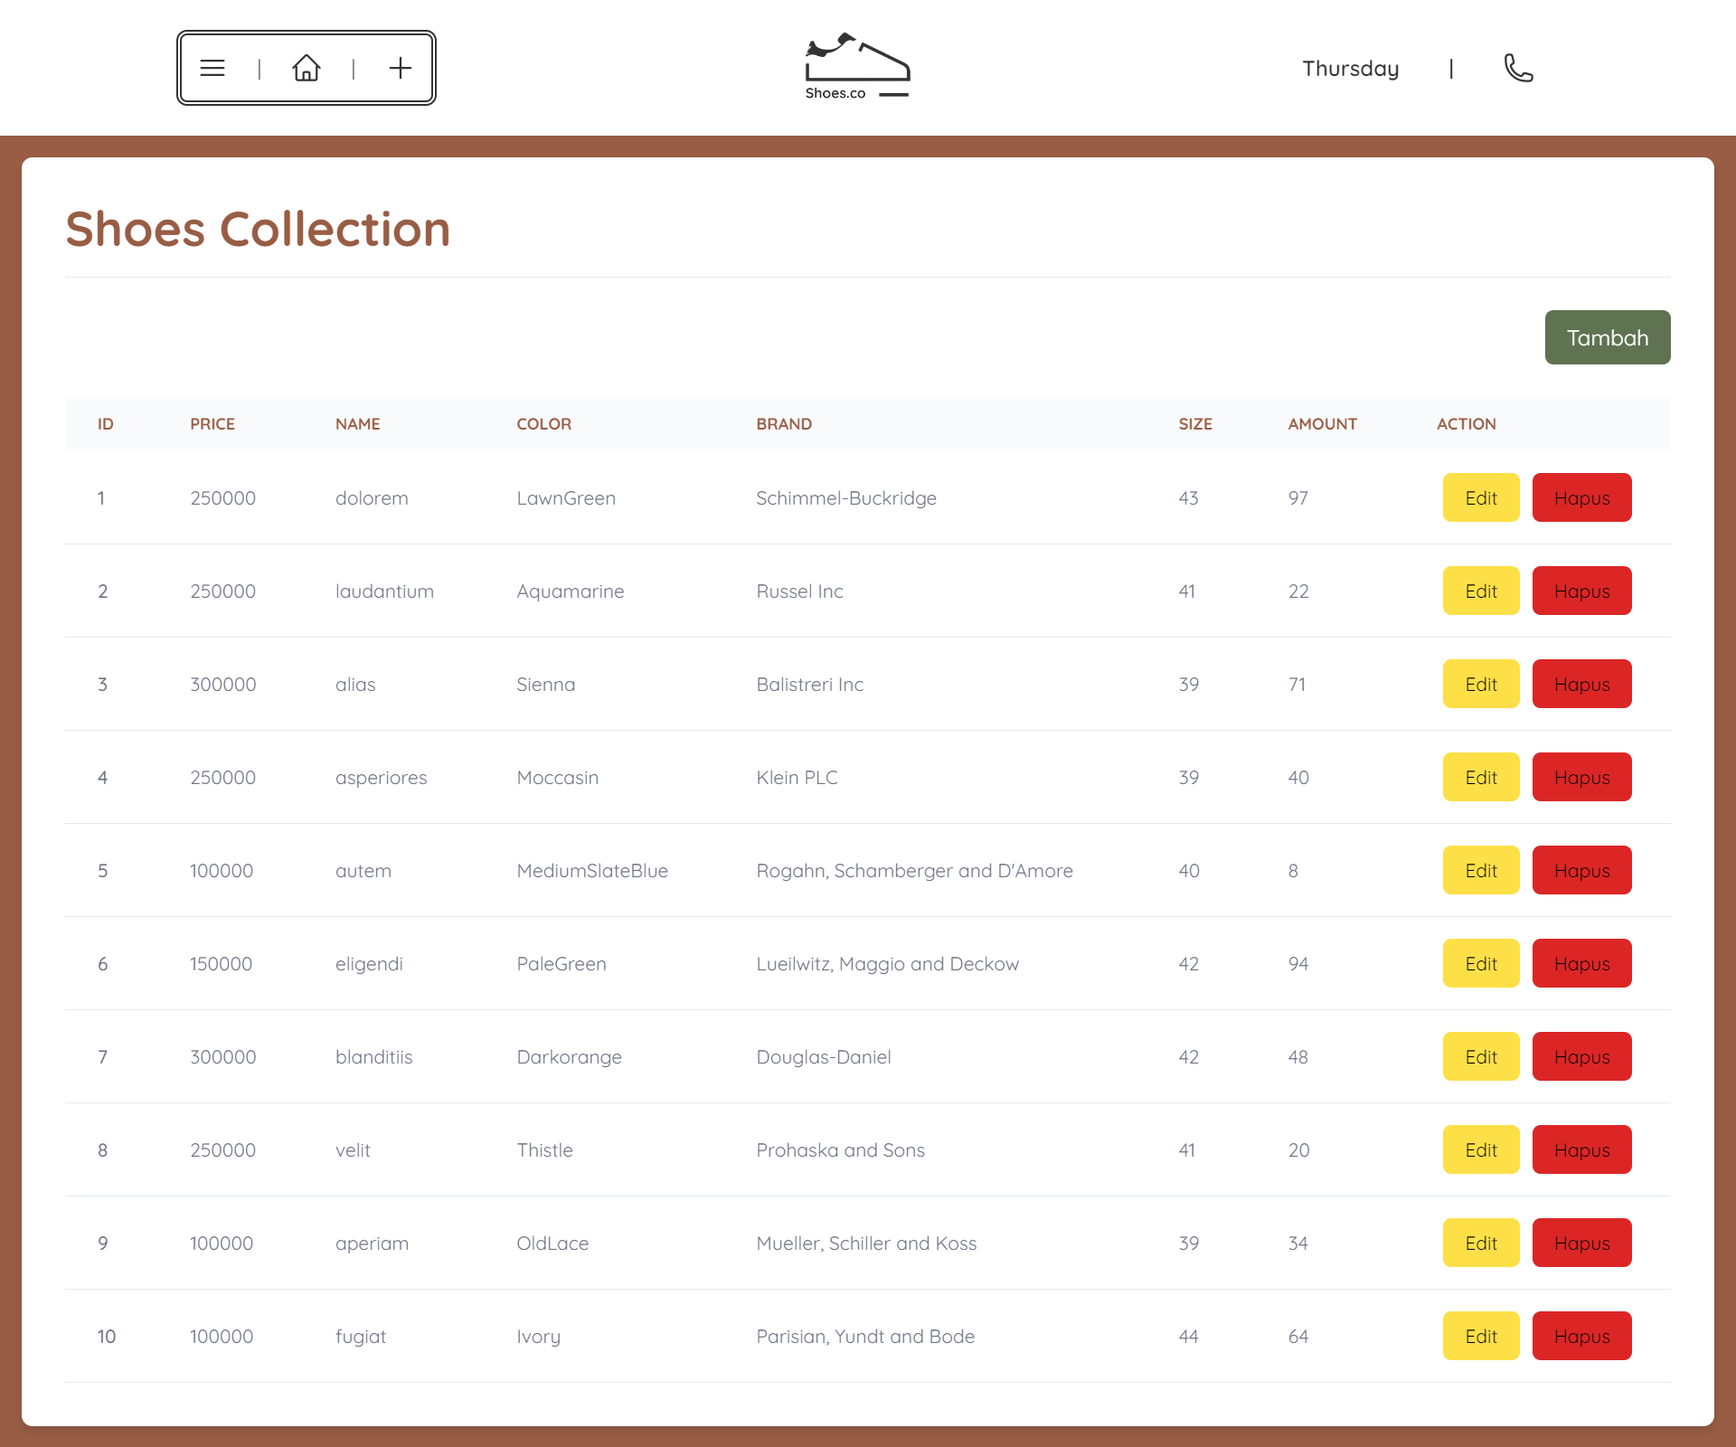
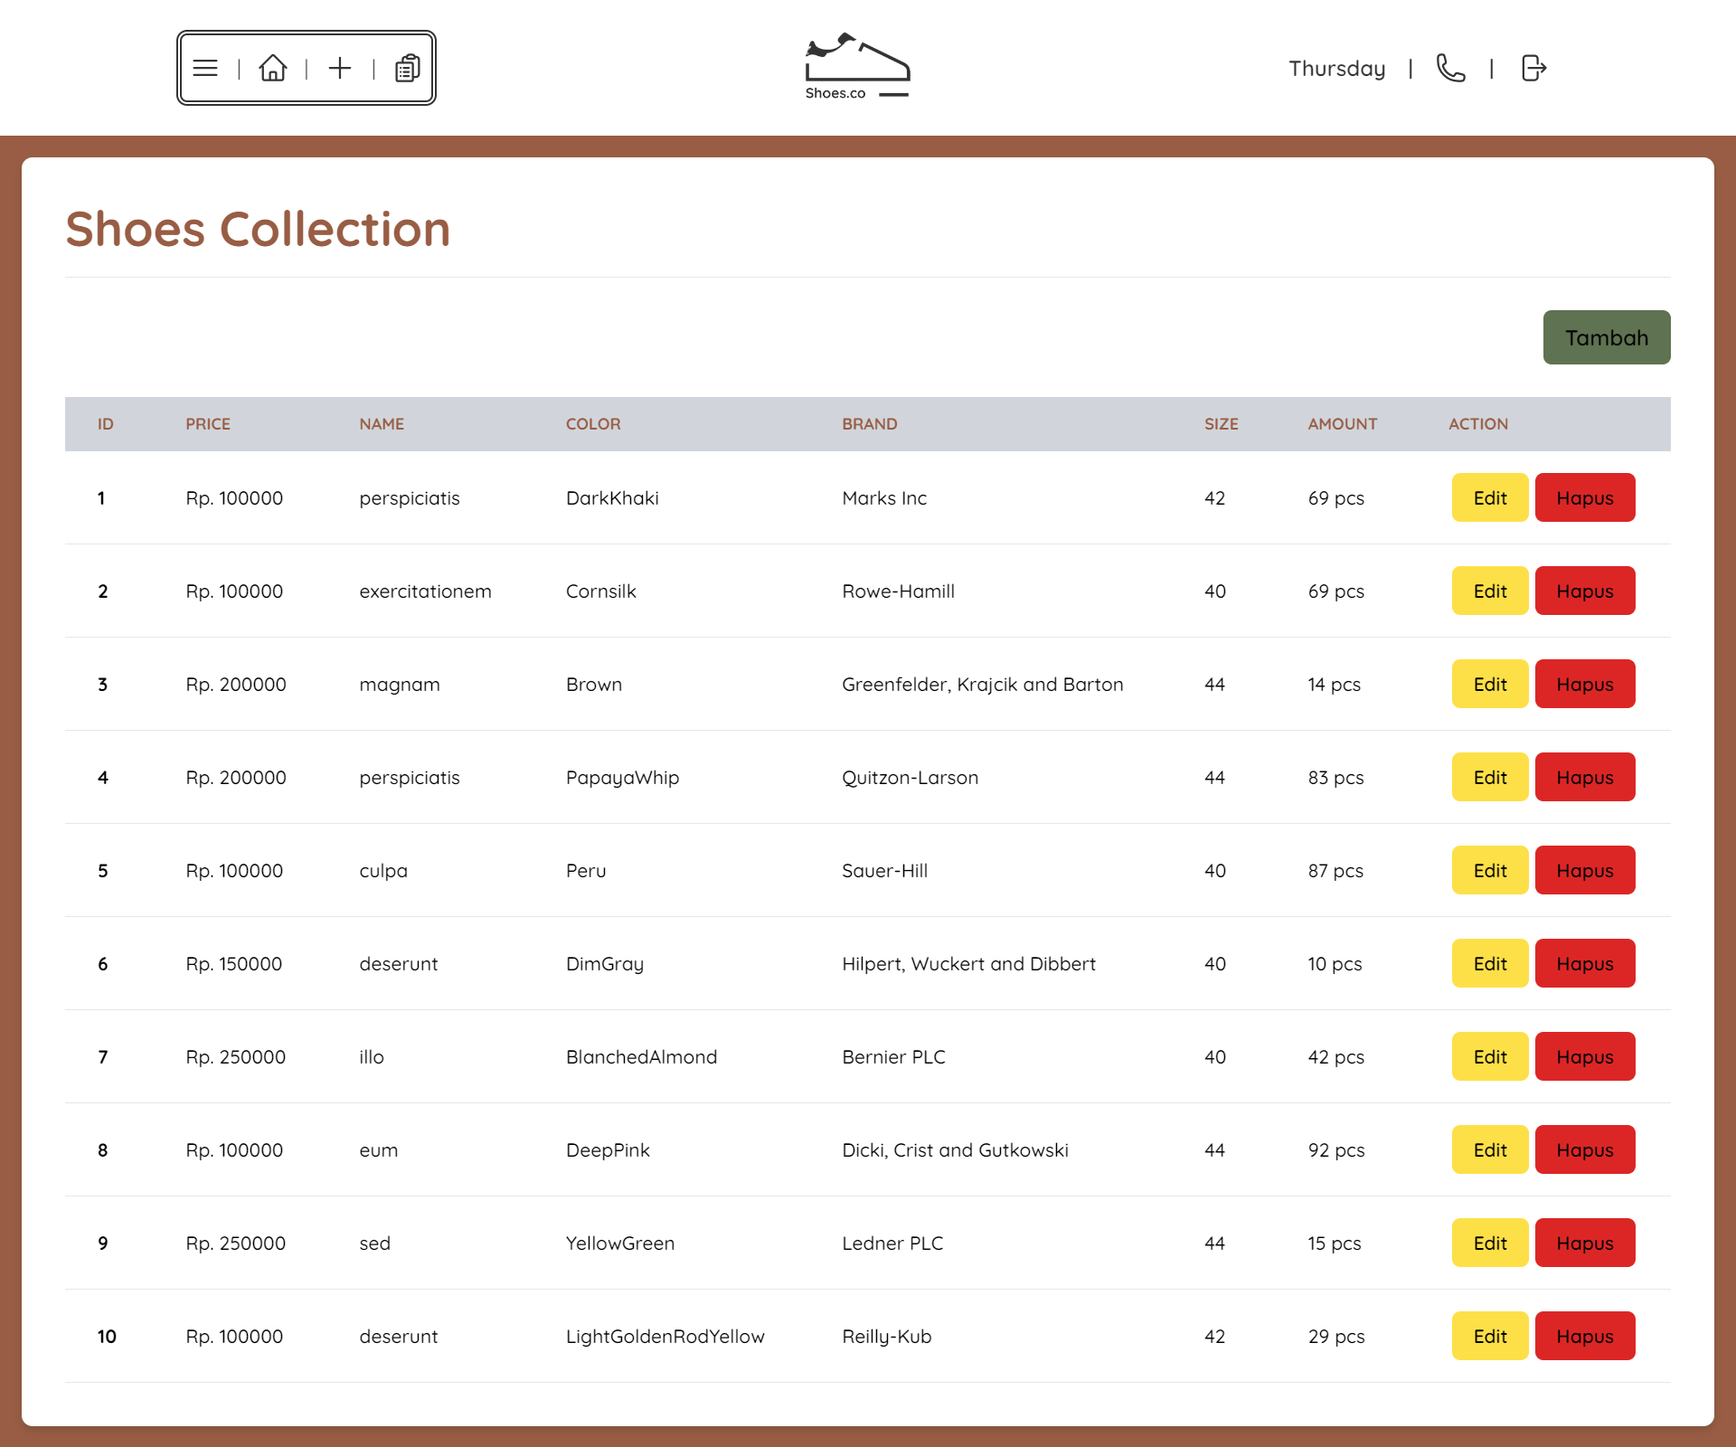
update ketentuan posttest 2

diff --git a/resources/views/admin/dashboard.blade.php b/resources/views/admin/dashboard.blade.php
@@ -1,60 +1,19 @@
 @extends('layouts.landing')
 
 @section('content')
-    <nav id="scroll-bg"
-        class="z-50 grid grid-flow-col w-full content-center sticky justify-around bg-transparent top-0 backdrop-blur-[2px]">
-        <div
-            class="grid justify-around grid-flow-col content-center self-center bg-transparent w-48 h-14 rounded-lg border-4 border-black opacity-80 border-double hover:shadow-sm hover:shadow-black transition ease-in">
-            <a href="">
-                <svg xmlns="http://www.w3.org/2000/svg" fill="none" viewBox="0 0 24 24" stroke-width="1.5" stroke="currentColor"
-                    class="w-6 h-6">
-                    <path stroke-linecap="round" stroke-linejoin="round" d="M3.75 6.75h16.5M3.75 12h16.5m-16.5 5.25h16.5" />
-                </svg>
-            </a>
-            <p class="text-black">|</p>
-            <a href="{{ route('home') }}">
-                <svg xmlns="http://www.w3.org/2000/svg" fill="none" viewBox="0 0 24 24" stroke-width="1.5" stroke="currentColor"
-                    class="w-6 h-6">
-                    <path stroke-linecap="round" stroke-linejoin="round"
-                        d="M2.25 12l8.954-8.955c.44-.439 1.152-.439 1.591 0L21.75 12M4.5 9.75v10.125c0 .621.504 1.125 1.125 1.125H9.75v-4.875c0-.621.504-1.125 1.125-1.125h2.25c.621 0 1.125.504 1.125 1.125V21h4.125c.621 0 1.125-.504 1.125-1.125V9.75M8.25 21h8.25" />
-                </svg>
-            </a>
-            <p class="text-black">|</p>
-            <a href="">
-                <svg xmlns="http://www.w3.org/2000/svg" fill="none" viewBox="0 0 24 24" stroke-width="1.5"
-                    stroke="currentColor" class="w-6 h-6">
-                    <path stroke-linecap="round" stroke-linejoin="round" d="M12 4.5v15m7.5-7.5h-15" />
-                </svg>
-
-            </a>
-        </div>
-        <a href="{{ route('home') }}" class="flex justify-center bg-transparent opacity-80 w-full">
-            <img src="{{ asset('assets/images/logo-black.png') }}" alt="Logo Shoes.co" class="w-fit h-[100px] top-3">
-        </a>
-        <div id="day-contact"
-            class="bg-transparent grid justify-around grid-flow-col content-center self-center w-52 h-14 text-black font-semibold opacity-80">
-            <p id="dayOfWeek"></p>
-            <p class="text-black">|</p>
-            <a href="">
-                <svg xmlns="http://www.w3.org/2000/svg" fill="none" viewBox="0 0 24 24" stroke-width="1.5"
-                    stroke="black" class="w-6 h-6 transition ease-in">
-                    <path stroke-linecap="round" stroke-linejoin="round"
-                        d="M2.25 6.75c0 8.284 6.716 15 15 15h2.25a2.25 2.25 0 002.25-2.25v-1.372c0-.516-.351-.966-.852-1.091l-4.423-1.106c-.44-.11-.902.055-1.173.417l-.97 1.293c-.282.376-.769.542-1.21.38a12.035 12.035 0 01-7.143-7.143c-.162-.441.004-.928.38-1.21l1.293-.97c.363-.271.527-.734.417-1.173L6.963 3.102a1.125 1.125 0 00-1.091-.852H4.5A2.25 2.25 0 002.25 4.5v2.25z" />
-                </svg>
-            </a>
-        </div>
-    </nav>
+    @include('admin.navbar')
     <div class="w-full h-full flex">
         <div class="w-full flex flex-col bg-[#985d44]">
             <div class="h-auto m-4 p-8 bg-white rounded-lg drop-shadow-md">
                 <p class="text-4xl font-bold mb-4 text-[#985d44]">Shoes Collection</p>
                 <hr><br>
                 <div class="w-full h-auto flex justify-end">
-                    <button class="px-4 py-2 bg-[#5f7251] hover:bg-[#546548] rounded-md text text-white">Tambah</button>
+                    <button
+                        class="px-4 py-2 bg-[#5f7251] hover:bg-[#546548] rounded-md text text-black hover:text-white font-semibold">Tambah</button>
                 </div><br>
                 <div class="relative overflow-x-auto">
                     <table class="w-full text-sm text-left text-gray-500">
-                        <thead class="text-xs text-[#985d44] uppercase bg-gray-50">
+                        <thead class="text-xs text-[#985d44] uppercase bg-gray-300">
                             <tr>
                                 <th scope="col" class="px-6 py-3">
                                     ID
@@ -84,12 +43,12 @@
                         </thead>
                         <tbody>
                             @foreach ($product as $pd)
-                                <tr class="bg-white border-b hover:bg-[#5f7251] hover:text-white">
-                                    <th scope="row" class="px-6 py-4 font-medium text- whitespace-nowrap">
+                                <tr class="bg-white border-b hover:bg-[#5f7251] text-black font-medium hover:text-white">
+                                    <th scope="row" class="px-6 py-4 whitespace-nowrap">
                                         {{ $pd->id }}
                                     </th>
                                     <td class="px-6 py-4">
-                                        {{ $pd->price }}
+                                        Rp. {{ $pd->price }}
                                     </td>
                                     <td class="px-6 py-4">
                                         {{ $pd->name }}
@@ -104,12 +63,14 @@
                                         {{ $pd->size }}
                                     </td>
                                     <td class="px-6 py-4">
-                                        {{ $pd->amount }}
+                                        {{ $pd->amount }} pcs
                                     </td>
                                     <td class="px-6 py-4">
                                         <div class="w-full h-auto flex justify-around">
-                                            <button class="px-4 py-2 bg-yellow-300 rounded-md text-black hover:bg-yellow-500 hover:text-white">Edit</button>
-                                            <button class="px-4 py-2 bg-red-600 rounded-md text-black hover:bg-red-800 hover:text-white">Hapus</button>
+                                            <button
+                                                class="px-4 py-2 bg-yellow-300 rounded-md text-black hover:bg-yellow-500 hover:text-white font-semibold">Edit</button>
+                                            <button
+                                                class="px-4 py-2 bg-red-600 rounded-md text-black hover:bg-red-800 hover:text-white font-semibold">Hapus</button>
                                         </div>
                                     </td>
                                 </tr>

diff --git a/resources/views/admin/navbar.blade.php b/resources/views/admin/navbar.blade.php
@@ -1,0 +1,59 @@
+<nav id="scroll-bg"
+        class="z-50 grid grid-flow-col w-full content-center sticky justify-around bg-transparent top-0 backdrop-blur-[2px]">
+        <div
+            class="grid justify-around grid-flow-col content-center self-center bg-transparent w-48 h-14 rounded-lg border-4 border-black opacity-80 border-double hover:shadow-sm hover:shadow-black transition ease-in">
+            <a href="">
+                <svg xmlns="http://www.w3.org/2000/svg" fill="none" viewBox="0 0 24 24" stroke-width="1.5"
+                    stroke="currentColor" class="w-6 h-6">
+                    <path stroke-linecap="round" stroke-linejoin="round" d="M3.75 6.75h16.5M3.75 12h16.5m-16.5 5.25h16.5" />
+                </svg>
+            </a>
+            <p class="text-black">|</p>
+            <a href="{{ route('admin') }}">
+                <svg xmlns="http://www.w3.org/2000/svg" fill="none" viewBox="0 0 24 24" stroke-width="1.5"
+                    stroke="currentColor" class="w-6 h-6">
+                    <path stroke-linecap="round" stroke-linejoin="round"
+                        d="M2.25 12l8.954-8.955c.44-.439 1.152-.439 1.591 0L21.75 12M4.5 9.75v10.125c0 .621.504 1.125 1.125 1.125H9.75v-4.875c0-.621.504-1.125 1.125-1.125h2.25c.621 0 1.125.504 1.125 1.125V21h4.125c.621 0 1.125-.504 1.125-1.125V9.75M8.25 21h8.25" />
+                </svg>
+            </a>
+            <p class="text-black">|</p>
+            <a href="">
+                <svg xmlns="http://www.w3.org/2000/svg" fill="none" viewBox="0 0 24 24" stroke-width="1.5"
+                    stroke="currentColor" class="w-6 h-6">
+                    <path stroke-linecap="round" stroke-linejoin="round" d="M12 4.5v15m7.5-7.5h-15" />
+                </svg>
+            </a>
+            <p class="text-black">|</p>
+            <a href="{{ route('transaction') }}">
+                <svg xmlns="http://www.w3.org/2000/svg" fill="none" viewBox="0 0 24 24" stroke-width="1.5"
+                    stroke="currentColor" class="w-6 h-6">
+                    <path stroke-linecap="round" stroke-linejoin="round"
+                        d="M9 12h3.75M9 15h3.75M9 18h3.75m3 .75H18a2.25 2.25 0 002.25-2.25V6.108c0-1.135-.845-2.098-1.976-2.192a48.424 48.424 0 00-1.123-.08m-5.801 0c-.065.21-.1.433-.1.664 0 .414.336.75.75.75h4.5a.75.75 0 00.75-.75 2.25 2.25 0 00-.1-.664m-5.8 0A2.251 2.251 0 0113.5 2.25H15c1.012 0 1.867.668 2.15 1.586m-5.8 0c-.376.023-.75.05-1.124.08C9.095 4.01 8.25 4.973 8.25 6.108V8.25m0 0H4.875c-.621 0-1.125.504-1.125 1.125v11.25c0 .621.504 1.125 1.125 1.125h9.75c.621 0 1.125-.504 1.125-1.125V9.375c0-.621-.504-1.125-1.125-1.125H8.25zM6.75 12h.008v.008H6.75V12zm0 3h.008v.008H6.75V15zm0 3h.008v.008H6.75V18z" />
+                </svg>
+
+            </a>
+        </div>
+        <a href="{{ route('admin') }}" class="flex justify-center bg-transparent opacity-80 w-full">
+            <img src="{{ asset('assets/images/logo-black.png') }}" alt="Logo Shoes.co" class="w-fit h-[100px] top-3">
+        </a>
+        <div id="day-contact"
+            class="bg-transparent grid justify-around grid-flow-col content-center self-center w-52 h-14 text-black font-semibold opacity-80">
+            <p id="dayOfWeek"></p>
+            <p class="text-black">|</p>
+            <a href="">
+                <svg xmlns="http://www.w3.org/2000/svg" fill="none" viewBox="0 0 24 24" stroke-width="1.5" stroke="black"
+                    class="w-6 h-6 transition ease-in">
+                    <path stroke-linecap="round" stroke-linejoin="round"
+                        d="M2.25 6.75c0 8.284 6.716 15 15 15h2.25a2.25 2.25 0 002.25-2.25v-1.372c0-.516-.351-.966-.852-1.091l-4.423-1.106c-.44-.11-.902.055-1.173.417l-.97 1.293c-.282.376-.769.542-1.21.38a12.035 12.035 0 01-7.143-7.143c-.162-.441.004-.928.38-1.21l1.293-.97c.363-.271.527-.734.417-1.173L6.963 3.102a1.125 1.125 0 00-1.091-.852H4.5A2.25 2.25 0 002.25 4.5v2.25z" />
+                </svg>
+            </a>
+            <p class="text-black">|</p>
+            <a href="{{ route('home') }}">
+                <svg xmlns="http://www.w3.org/2000/svg" fill="none" viewBox="0 0 24 24" stroke-width="1.5"
+                    stroke="currentColor" class="w-6 h-6">
+                    <path stroke-linecap="round" stroke-linejoin="round"
+                        d="M15.75 9V5.25A2.25 2.25 0 0013.5 3h-6a2.25 2.25 0 00-2.25 2.25v13.5A2.25 2.25 0 007.5 21h6a2.25 2.25 0 002.25-2.25V15m3 0l3-3m0 0l-3-3m3 3H9" />
+                </svg>
+            </a>
+        </div>
+    </nav>

diff --git a/resources/views/customer/home.blade.php b/resources/views/customer/home.blade.php
@@ -17,7 +17,7 @@
                     </svg>
                 </a>
                 <p class="text-white">|</p>
-                <a href="{{ route('home') }}">
+                <a href="{{ route('buy') }}">
                     <svg xmlns="http://www.w3.org/2000/svg" fill="none" viewBox="0 0 24 24" stroke-width="1.5"
                         stroke="white" class="w-6 h-6 hover:stroke-[#985d44] transition ease-in">
                         <path stroke-linecap="round" stroke-linejoin="round"
@@ -33,7 +33,7 @@
                     </svg>
                 </a>
             </div>
-            <a href="{{ route('home') }}" class="flex justify-center bg-transparent opacity-80 w-full">
+            <a href="{{ route('buy') }}" class="flex justify-center bg-transparent opacity-80 w-full">
                 <img src="{{ asset('assets/images/logo-white.png') }}" alt="Logo Shoes.co" class="w-fit h-[100px] top-3">
             </a>
             <div id="day-contact"
@@ -47,13 +47,26 @@
                             d="M2.25 6.75c0 8.284 6.716 15 15 15h2.25a2.25 2.25 0 002.25-2.25v-1.372c0-.516-.351-.966-.852-1.091l-4.423-1.106c-.44-.11-.902.055-1.173.417l-.97 1.293c-.282.376-.769.542-1.21.38a12.035 12.035 0 01-7.143-7.143c-.162-.441.004-.928.38-1.21l1.293-.97c.363-.271.527-.734.417-1.173L6.963 3.102a1.125 1.125 0 00-1.091-.852H4.5A2.25 2.25 0 002.25 4.5v2.25z" />
                     </svg>
                 </a>
+                <p>|</p>
+                <a href="{{ route('home') }}">
+                    <svg xmlns="http://www.w3.org/2000/svg" fill="none" viewBox="0 0 24 24" stroke-width="1.5"
+                        stroke="currentColor" class="w-6 h-6 hover:stroke-[#985d44] transition ease-in">
+                        <path stroke-linecap="round" stroke-linejoin="round"
+                            d="M15.75 9V5.25A2.25 2.25 0 0013.5 3h-6a2.25 2.25 0 00-2.25 2.25v13.5A2.25 2.25 0 007.5 21h6a2.25 2.25 0 002.25-2.25V15m3 0l3-3m0 0l-3-3m3 3H9" />
+                    </svg>
+                </a>
             </div>
         </nav>
         <div class="absolute w-[100%] h-[100%] bg-[#000000ac]">
             <div
                 class="w-full h-full flex flex-col self-center place-content-center text-center gap-7 rounded-lg z-40 mt-20">
                 <p class="text-6xl self-center font-medium text-white">Accompanying at every step</p>
-                <p class="text-white w-[800px] self-center text-left"><strong>WELCOME TO SHOES.CO -</strong> A Paradise for Shoe Enthusiasts! At Shoes.co, lovers of footwear will uncover the captivating world of our extensive collection. As like-minded shoe aficionados, you'll explore the transformative secrets of our unique and liberating culture. Nestled within the digital realm, Shoes.co is where style-minded individuals converge, diverse shoe cultures intermingle, and lasting footwear connections are formed. Shop with us and step into a world of shoe-tastic possibilities!</p>
+                <p class="text-white w-[800px] self-center text-left"><strong>WELCOME TO SHOES.CO -</strong> A Paradise for
+                    Shoe Enthusiasts! At Shoes.co, lovers of footwear will uncover the captivating world of our extensive
+                    collection. As like-minded shoe aficionados, you'll explore the transformative secrets of our unique and
+                    liberating culture. Nestled within the digital realm, Shoes.co is where style-minded individuals
+                    converge, diverse shoe cultures intermingle, and lasting footwear connections are formed. Shop with us
+                    and step into a world of shoe-tastic possibilities!</p>
                 <div
                     class="w-[750px] h-[100px] flex flex-row justify-around place-content-center self-center bg-[#ffffff3e] rounded-[20px] z-40 p-3 mt-20">
                     <img src="{{ asset('assets/images/converse-logo.png') }}" alt="" class="w-[150px] h-fit">

diff --git a/resources/views/admin/transaction.blade.php b/resources/views/admin/transaction.blade.php
@@ -1,0 +1,62 @@
+@extends('layouts.landing')
+
+@section('content')
+    @include('admin.navbar')
+    <div class="w-full h-full flex">
+        <div class="w-full flex flex-col bg-[#985d44]">
+            <div class="h-auto m-4 p-8 bg-white rounded-lg drop-shadow-md">
+                <p class="text-4xl font-bold mb-4 text-[#985d44]">Transaction History</p>
+                <hr><br>
+                <div class="w-full h-auto flex justify-end">
+                    <button
+                        class="px-4 py-2 bg-[#5f7251] hover:bg-[#546548] rounded-md text text-black hover:text-white font-semibold">Tambah</button>
+                </div><br>
+                <div class="relative overflow-x-auto">
+                    <table class="w-full text-sm text-left text-gray-500">
+                        <thead class="text-xs text-[#985d44] uppercase bg-gray-300">
+                            <tr class="items-center">
+                                <th scope="col" class="px-6 py-3">
+                                    ID Account
+                                </th>
+                                <th scope="col" class="px-6 py-3">
+                                    Product ID
+                                </th>
+                                <th scope="col" class="px-6 py-3">
+                                    Size
+                                </th>
+                                <th scope="col" class="px-6 py-3">
+                                    Quantity
+                                </th>
+                                <th scope="col" class="px-6 py-3">
+                                    Total Price
+                                </th>
+                            </tr>
+                        </thead>
+                        <tbody>
+                            @foreach ($transaction as $tr)
+                                <tr class="bg-white border-b hover:bg-[#5f7251] text-black font-medium hover:text-white">
+                                    <th scope="row" class="px-6 py-4 whitespace-nowrap">
+                                        {{ $tr->id }}
+                                    </th>
+                                    <td class="px-6 py-4">
+                                        {{ $tr->product_id }}
+                                    </td>
+                                    <td class="px-6 py-4">
+                                        {{ $tr->product_size }}
+                                    </td>
+                                    <td class="px-6 py-4">
+                                        {{ $tr->quantity }} pcs
+                                    </td>
+                                    <td class="px-6 py-4">
+                                        Rp. {{ $tr->total_price }}
+                                    </td>
+                                </tr>
+                            @endforeach
+                        </tbody>
+                    </table>
+                </div>
+            </div>
+        </div>
+    </div>
+    @include('components.script')
+@endsection

diff --git a/routes/web.php b/routes/web.php
@@ -1,6 +1,7 @@
 <?php
 
 use App\Models\Product;
+use App\Models\Transaction;
 use Illuminate\Support\Facades\Route;
 
 /*
@@ -33,3 +34,9 @@ Route::get('/admin/dashboard', function () {
         "product" => Product::all()
     ]);
 })->name('admin');
+
+Route::get('/admin/transaction', function () {
+    return view('admin.transaction', [
+        "transaction" => Transaction::all()
+    ]);
+})->name('transaction');

diff --git a/README.md b/README.md
@@ -17,3 +17,4 @@
 <img src="./public/assets/images/screenshot1.png">
 <img src="./public/assets/images/screenshot2.png">
 <img src="./public/assets/images/screenshot3.png">
+<img src="./public/assets/images/screenshot4.png">
